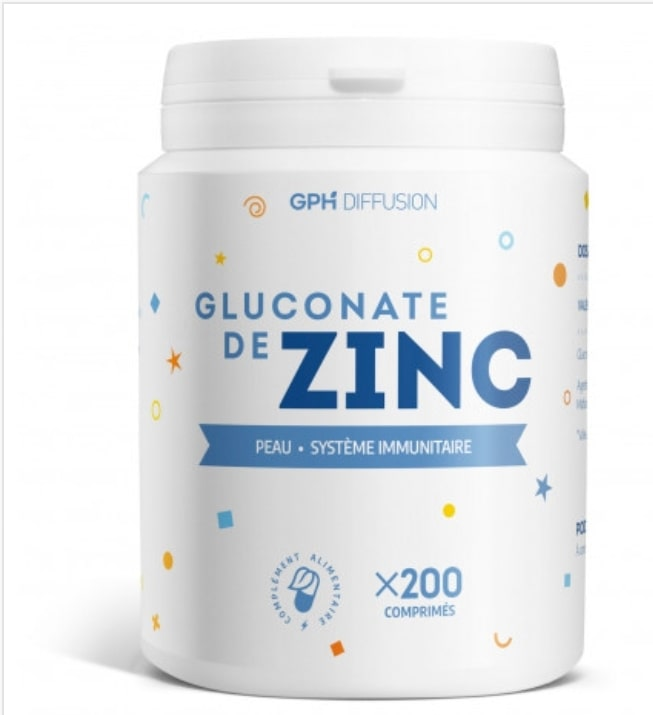
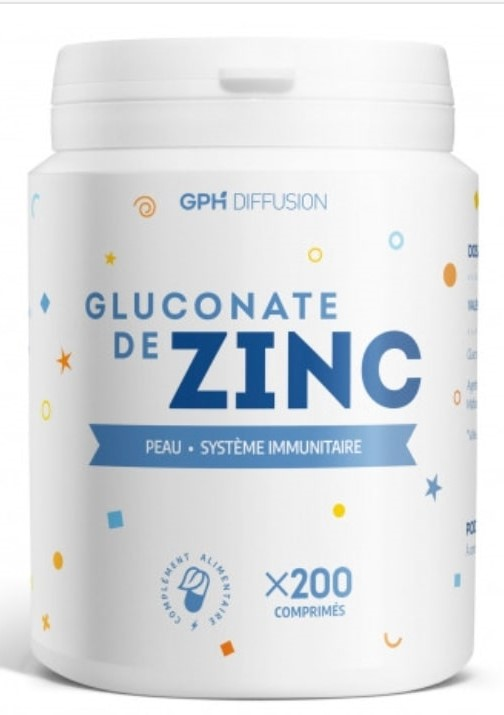
images ajouter & panier css updated

diff --git a/public/css/boutique.css b/public/css/boutique.css
@@ -278,8 +278,9 @@ body .row {
     */
 .card .cardTop img {
   border-radius: 11px;
-  height: 128px; /* Ajuster la hauteur des images pour les mobiles */
-  width: 170px;
+  height: 155px; /* Ajuster la hauteur des images pour les mobiles */
+  /* width: 170px; */
+  width: auto;
 }
 
 .card .panierTonne {

diff --git a/public/css/panier.css b/public/css/panier.css
@@ -466,8 +466,11 @@ nav #sac2{
   justify-content: center;
   width: 100px;
   padding: 20px;
-  margin-right: 20px;
+  margin-right: 10px;
   border: 1px dashed red;
+}
+#quantite{
+  margin: 15px;
 }
 .carte p{
   color: #000a03;
